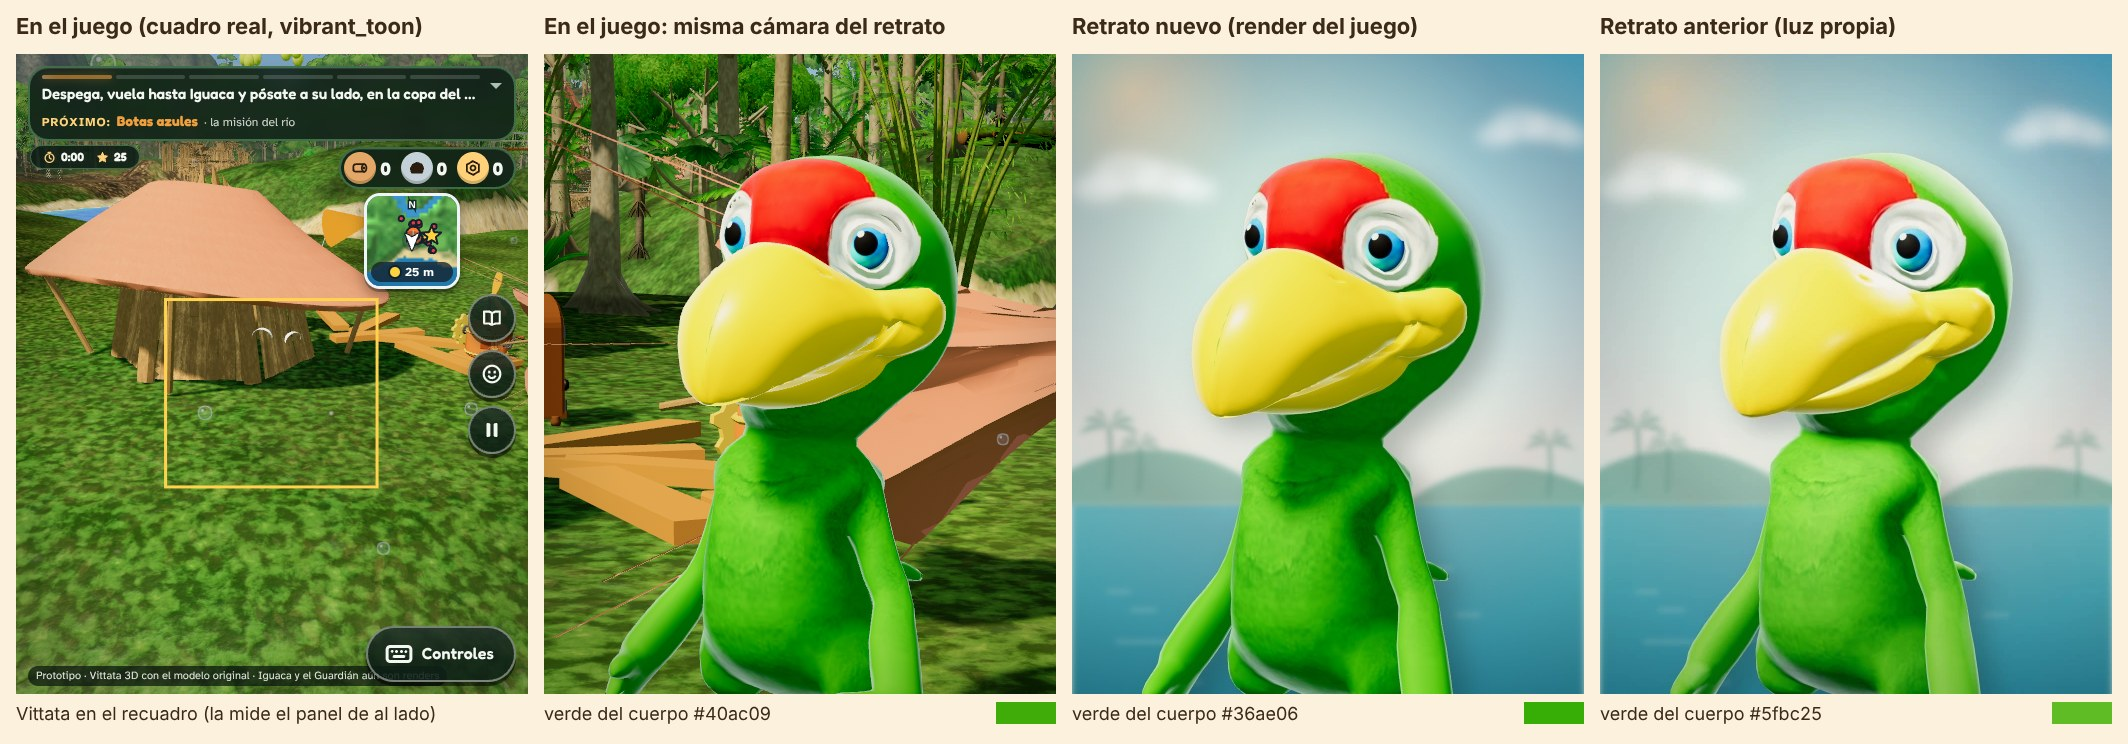
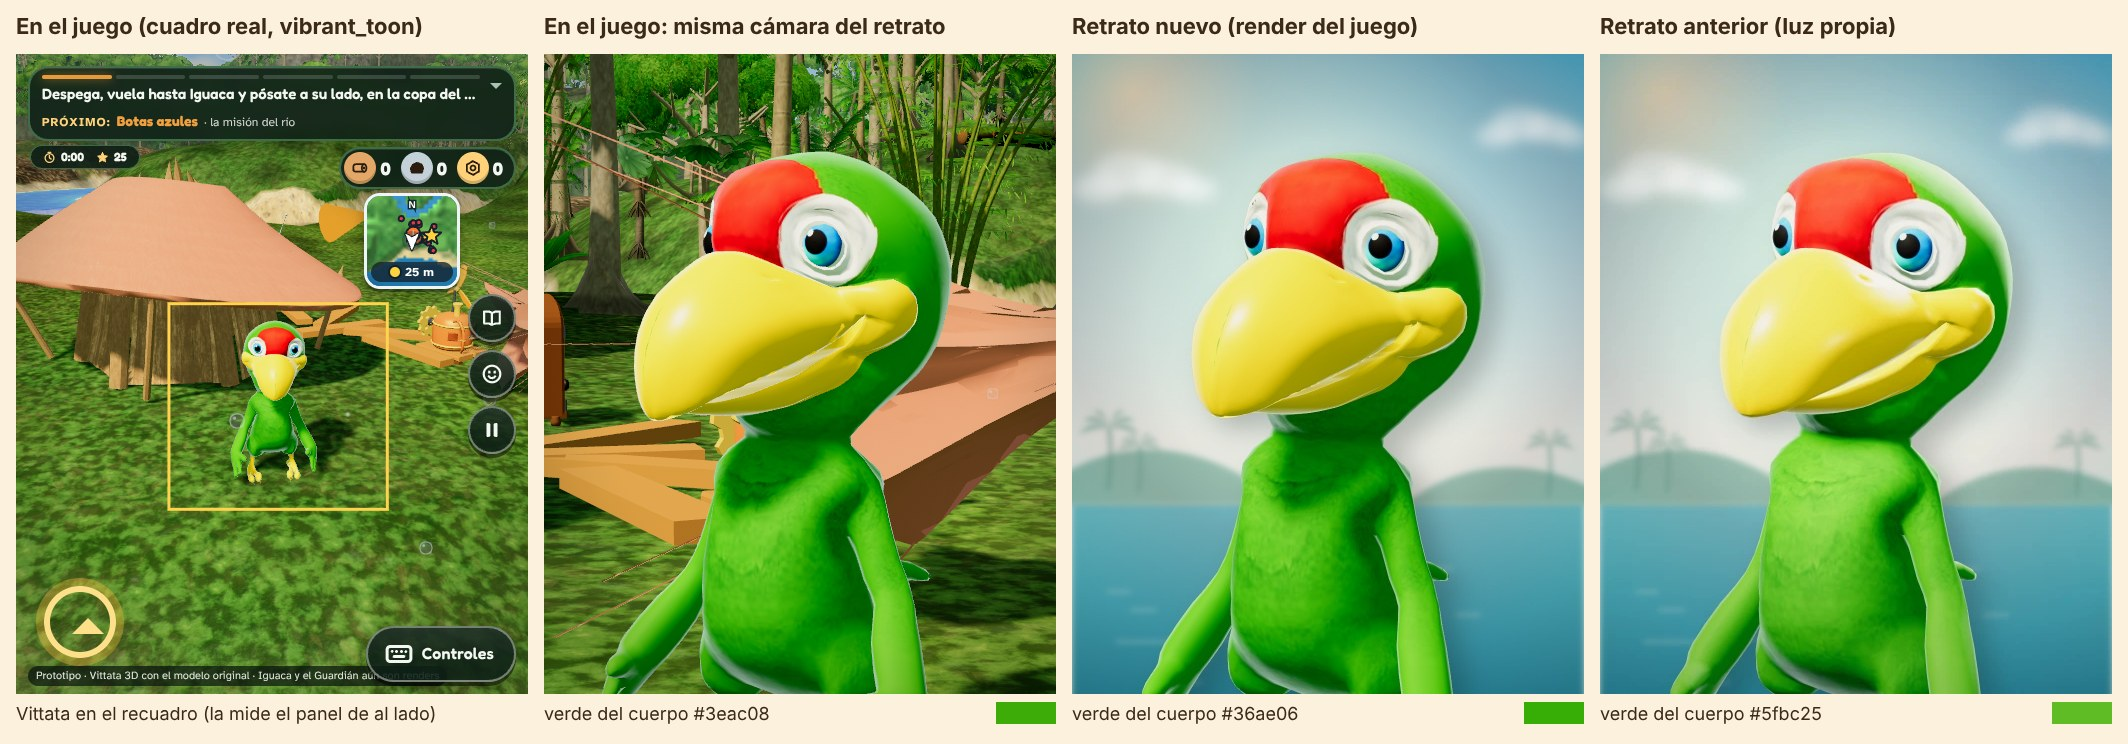
Álbum de las 36: comparación juego/retrato con Vittata visible; N9 al día
Claude-Session: https://claude.ai/code/session_01CFhoPYgX5CfK78r6RNsNYz

diff --git a/tools/album/retratos.js b/tools/album/retratos.js
@@ -40,7 +40,8 @@ const srv = http.createServer((q, r) => { const p = decodeURIComponent(q.url.spl
     const c = Object.assign({}, base, v, { encuadre: Object.assign({}, base.encuadre, v.encuadre), fondo: Object.assign({}, base.fondo, v.fondo) });
     if (comparar) { // docs/img/retratos/comparacion_juego.jpg: el juego (cuadro real y misma cámara) frente al retrato nuevo y el anterior
       const o = Object.assign({ piel: 'vittata', region: region.vittata, acento: pal.vittata || null, semilla: 7, formato: 'jpg' }, c, CFG.salida);
-      await pg.evaluate(() => { try { window.AV.G.ui.hideToast(); } catch (e) { /* sin HUD */ } }); await pg.waitForTimeout(1500);
+      await pg.evaluate(() => { try { window.AV.G.ui.hideToast(); } catch (e) { /* sin HUD */ } }); await pg.waitForTimeout(4000);
+      await pg.waitForFunction(() => { const p = window.AV.G.actores.player3D.root; let v = true; p.traverseAncestors(a => { if (!a.visible) v = false; }); return v && p.visible; }, null, { timeout: 30000 });
       const caja = await pg.evaluate(() => window.AVRetratoCaja());
       const real = (await pg.screenshot({ type: 'png' })).toString('base64');
       const juego = await pg.evaluate(o => window.AVRetratoJuego(o, o.w2, o.h2), o);

diff --git a/docs/equipo/REGISTRO_TAREAS.md b/docs/equipo/REGISTRO_TAREAS.md
@@ -242,3 +242,4 @@ Medido: la semana va por el 43 % de todos los modelos (tope 75 %, quedan 32 punt
 | 4-nov | Verificación educativa ep2–ep6 (respuestas de ChatGPT y Gemini) + DEPR 2022 | nube · subagente Opus 5.5 | 9f4bbbad, 7b7fb01d | — | `content/ep2`–`ep6/lecciones.js`, `content/ep3`–`ep5/en.js`, `docs/equipo/EDUCATIVO_EP2_EP6.md`, `docs/equipo/INVESTIGACION_KELVIN.md` | 19 datos con la página abierta: 16 verificados, 2 parciales (DLE bloqueado), 1 sin fuente; 4 textos ajustados y 3 enlaces cambiados; 23 códigos DEPR del PDF oficial. Build `edu-9f4bbba`: las 12 baterías en verde, ep2Test 64/64, ep3Test 75/75, ep4Test 67/67, ep5Test 79/79, ep6Test 88/88, idiomaTest 31/31 (aparte: 866 s, pasa del límite de 600 s en la misma sesión); 0 errores de consola |
 | 4-nov | KIMI-019 · medir en móvil los vecinos (CG-44) y la ciudad viva (N17) | Kimi 2 · Kimi Code | (este commit) | — | `tools/build/kimi2_vecinos.js`, `docs/equipo/RENDIMIENTO_PC.md` (§ KIMI-019) | Móvil 375×812 dpr 3 CPU ×4 GPU real, A/B en página (`G.quiet`, `ciudadViva.pausa`, malla `vecinos`): +2 draw calls y ≤ 2,5 k tris entre ambos (media), 0 texturas nuevas; texGPU 377 MB (Villa) → 403 MB (ciudad) atribuido al streaming de la zona, no a ellos; 0 errores de consola en 3 corridas. FPS delta ON−SIN sin concluir: contención de las otras dos sesiones de Kimi (hasta 60 Chrome headless; stalls ajenos de hasta 19 s). | No hay nada que recortar antes de ampliar: memoria sin cambio, calls/tris negligible, apagado lejos (vecinos >90 m; ciudad viva >190 m con LOD 1/3/6 cuadros). Pendiente: confirmar CPU con `--micro` (ms/cuadro de `paso()+pintar()`, inmune al GPU) cuando la PC esté libre. |
 | 4-nov | KIMI-010 · lonas: _hd al atlas y _lejos a la caja del ligero + verificación GPU real | Kimi 3 · Kimi (Moonshot) | bee2cd27, 3613e5e2 | — | `tools/blender/edificios_lonas_atlas.js` (bee2cd27), `tools/build/kimi3_lonas.js`, `docs/img/kimi010/` (9 capturas + resultados.json), `docs/EDIFICIOS.md` | Chrome headless con GPU real, 1920×1080, calidad alta (`node tools/build/kimi3_lonas.js`): auditoría de materiales en lomas/colina/rio_oeste_2 con 0 crudos (solo `AV_HD_Savage`/`AV_HD_Ancient`); 95–139 draw calls y 0,74–1,79 M tris a ~142–143 FPS; `streamingTest` 21/23 y `lookTest` 42/44 (los rojos son los QA-81 conocidos). | `carpa_a/e/f` _hd con 1 material `AV_HD_Savage` (colores = ligero); `_lejos` de las 5 lonas reescalados a la caja exacta (≤ 0,3 m); `campamento_c`/`toldo_pequeno` con `hd: false` hasta rehacer su `_hd` desde el migrado. No toqué `streaming.js` ni `sitio/`. |
+| 4-nov | N9 (rehecha) · retratos con el verde y la luz del juego | Nube (subagente) · Claude Opus 5.5 | 2b8c68a2 | — | `tools/album/` (en_juego.js, componer.js nuevos; retratos.html fuera), `assets/retratos_album/` (36 + silueta, mismas rutas), `docs/img/retratos/` | Build `retratos-2b8c68a2`: selfTest 103/103, missionTest 76/76, accessoryTest 12/12, templateTest 19/19, eduTest 79/79, maestroTest 26/26, criaderoTest 51/51, saveTest 45/45, comicTest 67/67, e2eTest 48/48, lookCapitulosTest 12/12; vivoTest 63/64 (falla «A menos de 10 m la miran», residentes); movementTest agotó los 600 s (máquina con carga 9 en 4 núcleos). 0 errores de consola. El commit no toca `src/`: ni el álbum ni el juego cambian. | Los retratos se dibujan ahora dentro del juego (vibrant_toon, su sol, su cielo y su gradación; sin luz propia). Verde del pecho: juego #3eac08, retrato #36ae06 (antes #5fbc25). Carga inicial sin retratos. |

diff --git a/docs/equipo/TAREAS_NUBE.md b/docs/equipo/TAREAS_NUBE.md
@@ -12,7 +12,7 @@ La coordinadora mantiene al día esta tabla. La lee `tools/build/estado.py` para
 | N6 | hecha · 23417eb | **Gags del pichón** |
 | N7 | hecha · a5fb0ce | **Gesto de posarse y patas recogidas en vuelo** |
 | N8 | hecha · 850bc1f + 67f18e7 · luna fría y baja, faroles, cucubanos, estrellas y nubes de noche | **Noche del cap. 5 más clara, con estrellas y luna** |
-| N9 | hecha · b1696b05 + cf9f084f · los 36 retratos 3D (+ silueta de las cerradas) en el Álbum, cargados al abrir el Diario; hoja en docs/img/retratos/hoja_36.jpg | **Retratos 3D de las 36 para el álbum (3 de muestra)** |
+| N9 | hecha · b1696b05 + cf9f084f; rehecha 4-nov con el verde del juego · 2b8c68a2 · los 36 retratos (+ silueta) dibujados en el juego con vibrant_toon; comparación en docs/img/retratos/comparacion_juego.jpg, hoja en docs/img/retratos/hoja_36.jpg | **Retratos 3D de las 36 para el álbum (3 de muestra)** |
 | N10 | hecha · 9acb698 · colonias por hábitat y Mara y Vela en el Álbum (ocultas hasta el cap. 5) | **Mundo vivo por ecología y la revelación de Mara y Vela** |
 | N11 | hecha · 75a2ef4 + d0b0eae · plantilla de Kelvin, poses de acción, cómic del cap. 1 lleno (caps. 2–6: CG-37 de Grok) | **Cómic con humor, foto con pose y el cómic de los 6 capítulos** |
 | N12 | hecha · c98a8d9 a 3983809 · juice de vuelo y la cámara ya no hace zoom sola en el iPad | **Efectos de vuelo y la cámara que se acercaba sola en el iPad** |
